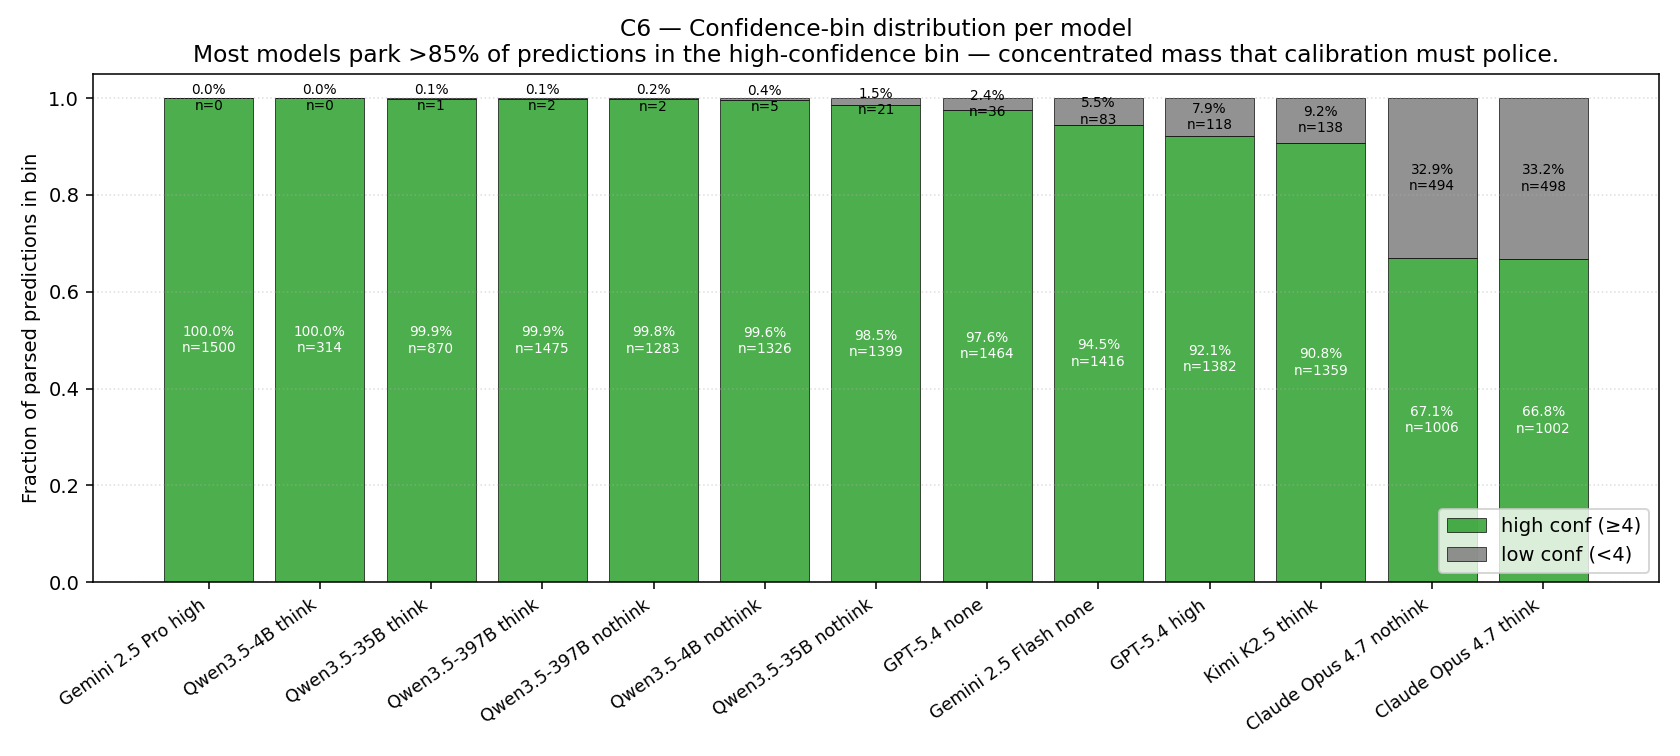
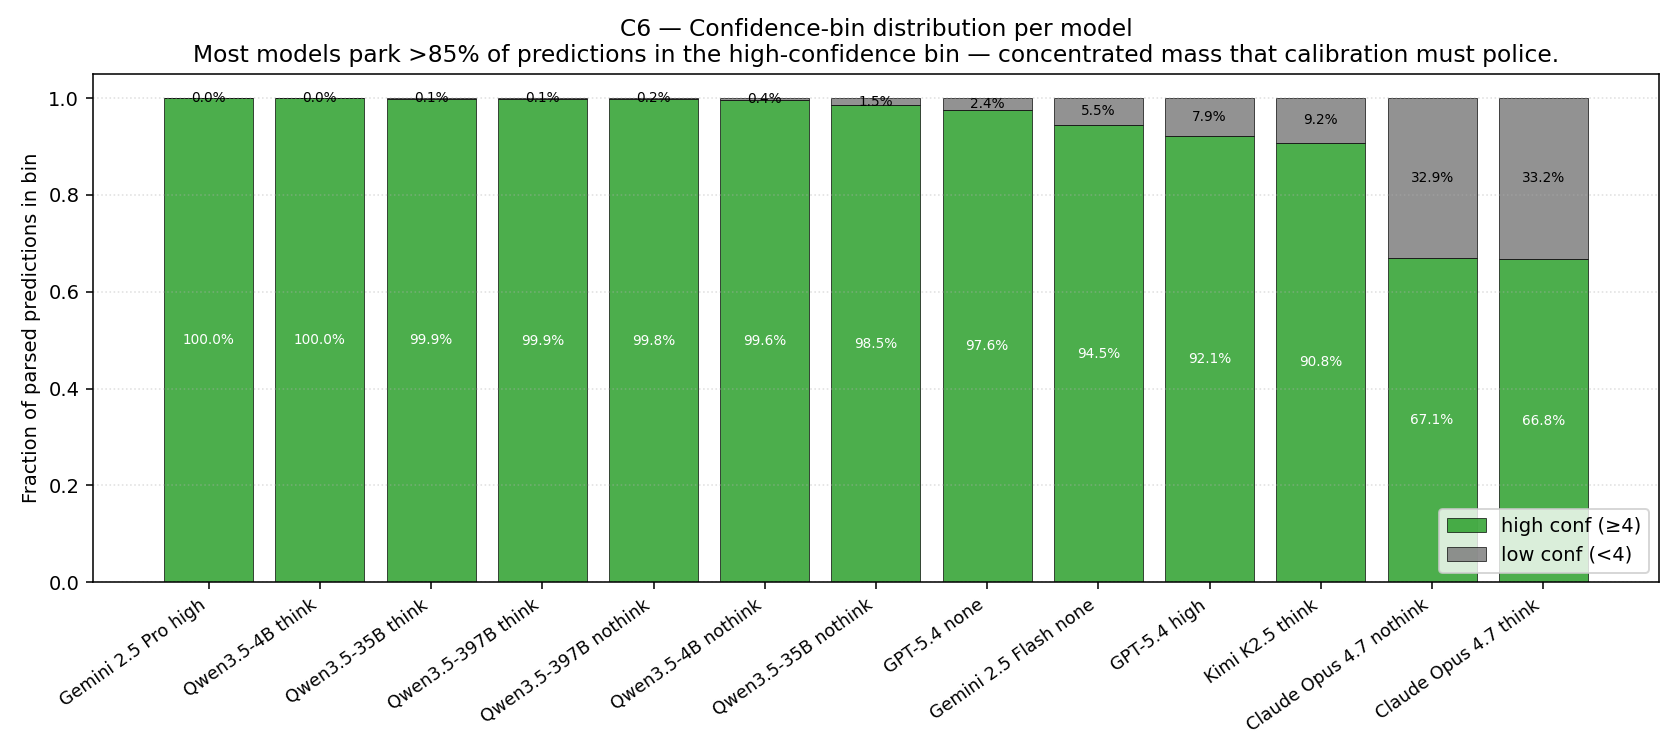
slight updates on past reports

diff --git a/viz/_make_charts_calibration_apr23.py b/viz/_make_charts_calibration_apr23.py
@@ -296,28 +296,82 @@ def chart_pearson_r_bar(rows: list[RunRow]) -> None:
 
 def chart_gap_vs_r_scatter(rows: list[RunRow]) -> None:
     """C3 — Calibration gap (x) vs Pearson r (y) scatter."""
-    fig, ax = plt.subplots(figsize=(9.5, 6.5))
+    fig, ax = plt.subplots(figsize=(10.0, 6.8))
     for r in rows:
-        ax.scatter(r.calibration_gap, r.pearson_r,
-                   s=110, color=r.color, marker=r.marker, edgecolor="black",
-                   linewidth=0.6, alpha=0.9)
-        ax.annotate(r.label, (r.calibration_gap, r.pearson_r),
-                    xytext=(6, 4), textcoords="offset points", fontsize=8)
-    ax.axhline(0.0, color="gray", linewidth=0.6)
-    ax.axvline(0.0, color="gray", linewidth=0.6)
+        ax.scatter(
+            r.calibration_gap,
+            r.pearson_r,
+            s=110,
+            color=r.color,
+            marker=r.marker,
+            edgecolor="black",
+            linewidth=0.6,
+            alpha=0.9,
+            label=r.label,
+            zorder=3,
+        )
+    ax.axhline(0.0, color="gray", linewidth=0.6, zorder=1)
+    ax.axvline(0.0, color="gray", linewidth=0.6, zorder=1)
+
+    xg = [r.calibration_gap for r in rows]
+    yg = [r.pearson_r for r in rows]
+    xr = max(xg) - min(xg)
+    yr = max(yg) - min(yg)
+    pad_x = max(0.03, xr * 0.14)
+    pad_y = max(0.05, yr * 0.14)
+    # Extra margin so dense clusters sit away from corner annotations / axes
+    x0 = min(min(xg) - pad_x, -0.028)
+    x1 = max(xg) + pad_x
+    y0 = min(min(yg) - pad_y, -0.055)
+    y1 = max(yg) + pad_y
+    ax.set_xlim(x0, x1)
+    ax.set_ylim(y0, y1)
+
     ax.set_xlabel("Calibration gap (correct conf − incorrect conf)")
     ax.set_ylabel("Pearson r (confidence vs correctness)")
-    ax.set_title("C3 — Calibration gap vs Pearson r\n"
-                 "Top-right = honestly confident; bottom-left = miscalibrated AND uninformative.")
-    ax.grid(linestyle=":", alpha=0.4)
-    # Quadrant annotations
-    xmin, xmax = ax.get_xlim()
-    ymin, ymax = ax.get_ylim()
-    ax.text(xmax * 0.97, ymax * 0.97, "honest +\ninformative", ha="right", va="top",
-            color="darkgreen", fontsize=9, alpha=0.7)
-    ax.text(xmin * 0.97 if xmin < 0 else 0.001, ymin * 0.97 if ymin < 0 else 0.001,
-            "miscalibrated +\nuninformative", ha="left", va="bottom",
-            color="darkred", fontsize=9, alpha=0.7)
+    ax.set_title(
+        "C3 — Calibration gap vs Pearson r\n"
+        "Top-right = honestly confident; bottom-left = miscalibrated AND uninformative."
+    )
+    ax.grid(linestyle=":", alpha=0.4, zorder=0)
+    # Quadrant hints in axes coordinates (avoid overlap with data min/max)
+    ax.text(
+        0.98,
+        0.98,
+        "honest +\ninformative",
+        transform=ax.transAxes,
+        ha="right",
+        va="top",
+        color="darkgreen",
+        fontsize=9,
+        alpha=0.72,
+        zorder=2,
+    )
+    ax.text(
+        0.008,
+        0.05,
+        "miscalibrated +\nuninformative",
+        transform=ax.transAxes,
+        ha="left",
+        va="bottom",
+        color="darkred",
+        fontsize=9,
+        alpha=0.72,
+        zorder=2,
+    )
+    ax.legend(
+        loc="upper left",
+        bbox_to_anchor=(0.0, 1.0),
+        fontsize=7,
+        framealpha=0.94,
+        ncol=2,
+        columnspacing=1.35,
+        handlelength=1.85,
+        handletextpad=0.95,
+        labelspacing=0.78,
+        borderaxespad=0.55,
+    ).set_zorder(6)
+
     fig.tight_layout()
     out = OUT_DIR / "C3_gap_vs_pearson_scatter.png"
     fig.savefig(out, dpi=140)
@@ -390,8 +444,6 @@ def _chart_conf_bin_pairs(rows: list[RunRow], threshold: float, out_name: str,
     labels = [r.label for r in rows_s]
     high = [b[0] for b in binned_s]
     low = [b[2] for b in binned_s]
-    n_high = [b[1] for b in binned_s]
-    n_low = [b[3] for b in binned_s]
 
     tlabel = _fmt_thresh(threshold)
     x = np.arange(len(rows_s))
@@ -401,11 +453,11 @@ def _chart_conf_bin_pairs(rows: list[RunRow], threshold: float, out_name: str,
            color="tab:green", alpha=0.8, edgecolor="black", linewidth=0.4)
     ax.bar(x + width/2, low, width, label=f"acc | low conf (< {tlabel})",
            color="tab:gray", alpha=0.8, edgecolor="black", linewidth=0.4)
-    for i, (h, l, nh, nl) in enumerate(zip(high, low, n_high, n_low)):
+    for i, (h, l) in enumerate(zip(high, low)):
         if not math.isnan(h):
-            ax.text(i - width/2, h + 0.01, f"{h:.2f}\n(n={nh})", ha="center", va="bottom", fontsize=7)
+            ax.text(i - width/2, h + 0.01, f"{h:.2f}", ha="center", va="bottom", fontsize=7)
         if not math.isnan(l):
-            ax.text(i + width/2, l + 0.01, f"{l:.2f}\n(n={nl})", ha="center", va="bottom", fontsize=7)
+            ax.text(i + width/2, l + 0.01, f"{l:.2f}", ha="center", va="bottom", fontsize=7)
     ax.set_xticks(x)
     ax.set_xticklabels(labels, rotation=35, ha="right", fontsize=9)
     ax.set_ylabel("5-class accuracy on the bin")
@@ -459,9 +511,9 @@ def chart_conf_bin_distribution(rows: list[RunRow]) -> None:
     fig, ax = plt.subplots(figsize=(12, 5.4))
     ax.bar(x, high_pct, label="high conf (≥4)", color="tab:green", alpha=0.85, edgecolor="black", linewidth=0.4)
     ax.bar(x, low_pct, bottom=high_pct, label="low conf (<4)", color="tab:gray", alpha=0.85, edgecolor="black", linewidth=0.4)
-    for i, (hp, lp, h, l) in enumerate(zip(high_pct, low_pct, high, low)):
-        ax.text(i, hp / 2, f"{hp*100:.1f}%\nn={h}", ha="center", va="center", fontsize=7, color="white")
-        ax.text(i, hp + lp / 2, f"{lp*100:.1f}%\nn={l}", ha="center", va="center", fontsize=7)
+    for i, (hp, lp) in enumerate(zip(high_pct, low_pct)):
+        ax.text(i, hp / 2, f"{hp*100:.1f}%", ha="center", va="center", fontsize=7, color="white")
+        ax.text(i, hp + lp / 2, f"{lp*100:.1f}%", ha="center", va="center", fontsize=7)
     ax.set_xticks(x)
     ax.set_xticklabels(labels, rotation=35, ha="right", fontsize=9)
     ax.set_ylim(0, 1.05)

diff --git a/viz/_make_charts_second_rollout_apr25.py b/viz/_make_charts_second_rollout_apr25.py
@@ -168,25 +168,26 @@ def main() -> None:
     ax.axhline(-np.log10(0.05), color="r", linestyle="--", linewidth=1, label="p=0.05")
     ax.set_xticks(x)
     ax.set_xticklabels(labels, rotation=18, ha="right")
-    ax.set_ylabel("-log10(p)  (McNemar exact two-sided; capped at 5 for display)")
+    ax.set_ylabel(
+        r"$-\log_{10}(p)$" + "\n(McNemar exact, two-sided; height capped at 5)"
+    )
     for i, p in enumerate(ps):
         h_bar = min(neglog[i], 5)
         mcp = (rows[i][2].get("mcnemar_discordant_pairs") or {})
         w_c = int(mcp.get("wrong_to_correct", 0))
         c_w = int(mcp.get("correct_to_wrong", 0))
-        d_tot = w_c + c_w
         ax.text(
             x[i],
             h_bar + 0.1,
-            f"p={p:.3g}\nW→C′={w_c}, C→W={c_w}\n(n={d_tot} disc.)",
+            f"p={p:.3g}\nW→C′={w_c}, C→W={c_w}",
             ha="center",
             fontsize=6.5,
             linespacing=1.12,
         )
     ax.legend(loc="upper right")
     ax.set_title("Paired significance of accuracy change (discordant pairs only)")
-    # Room for 3-line annotation above bar (capped at −log10 p = 5)
-    ax.set_ylim(0, 6.3)
+    # Room for 2-line annotation above bar (capped at −log10 p = 5)
+    ax.set_ylim(0, 5.9)
     fig.tight_layout()
     fig.savefig(CHART_DIR / "03_mcnemar_neglog10p.png", dpi=150)
     plt.close(fig)
